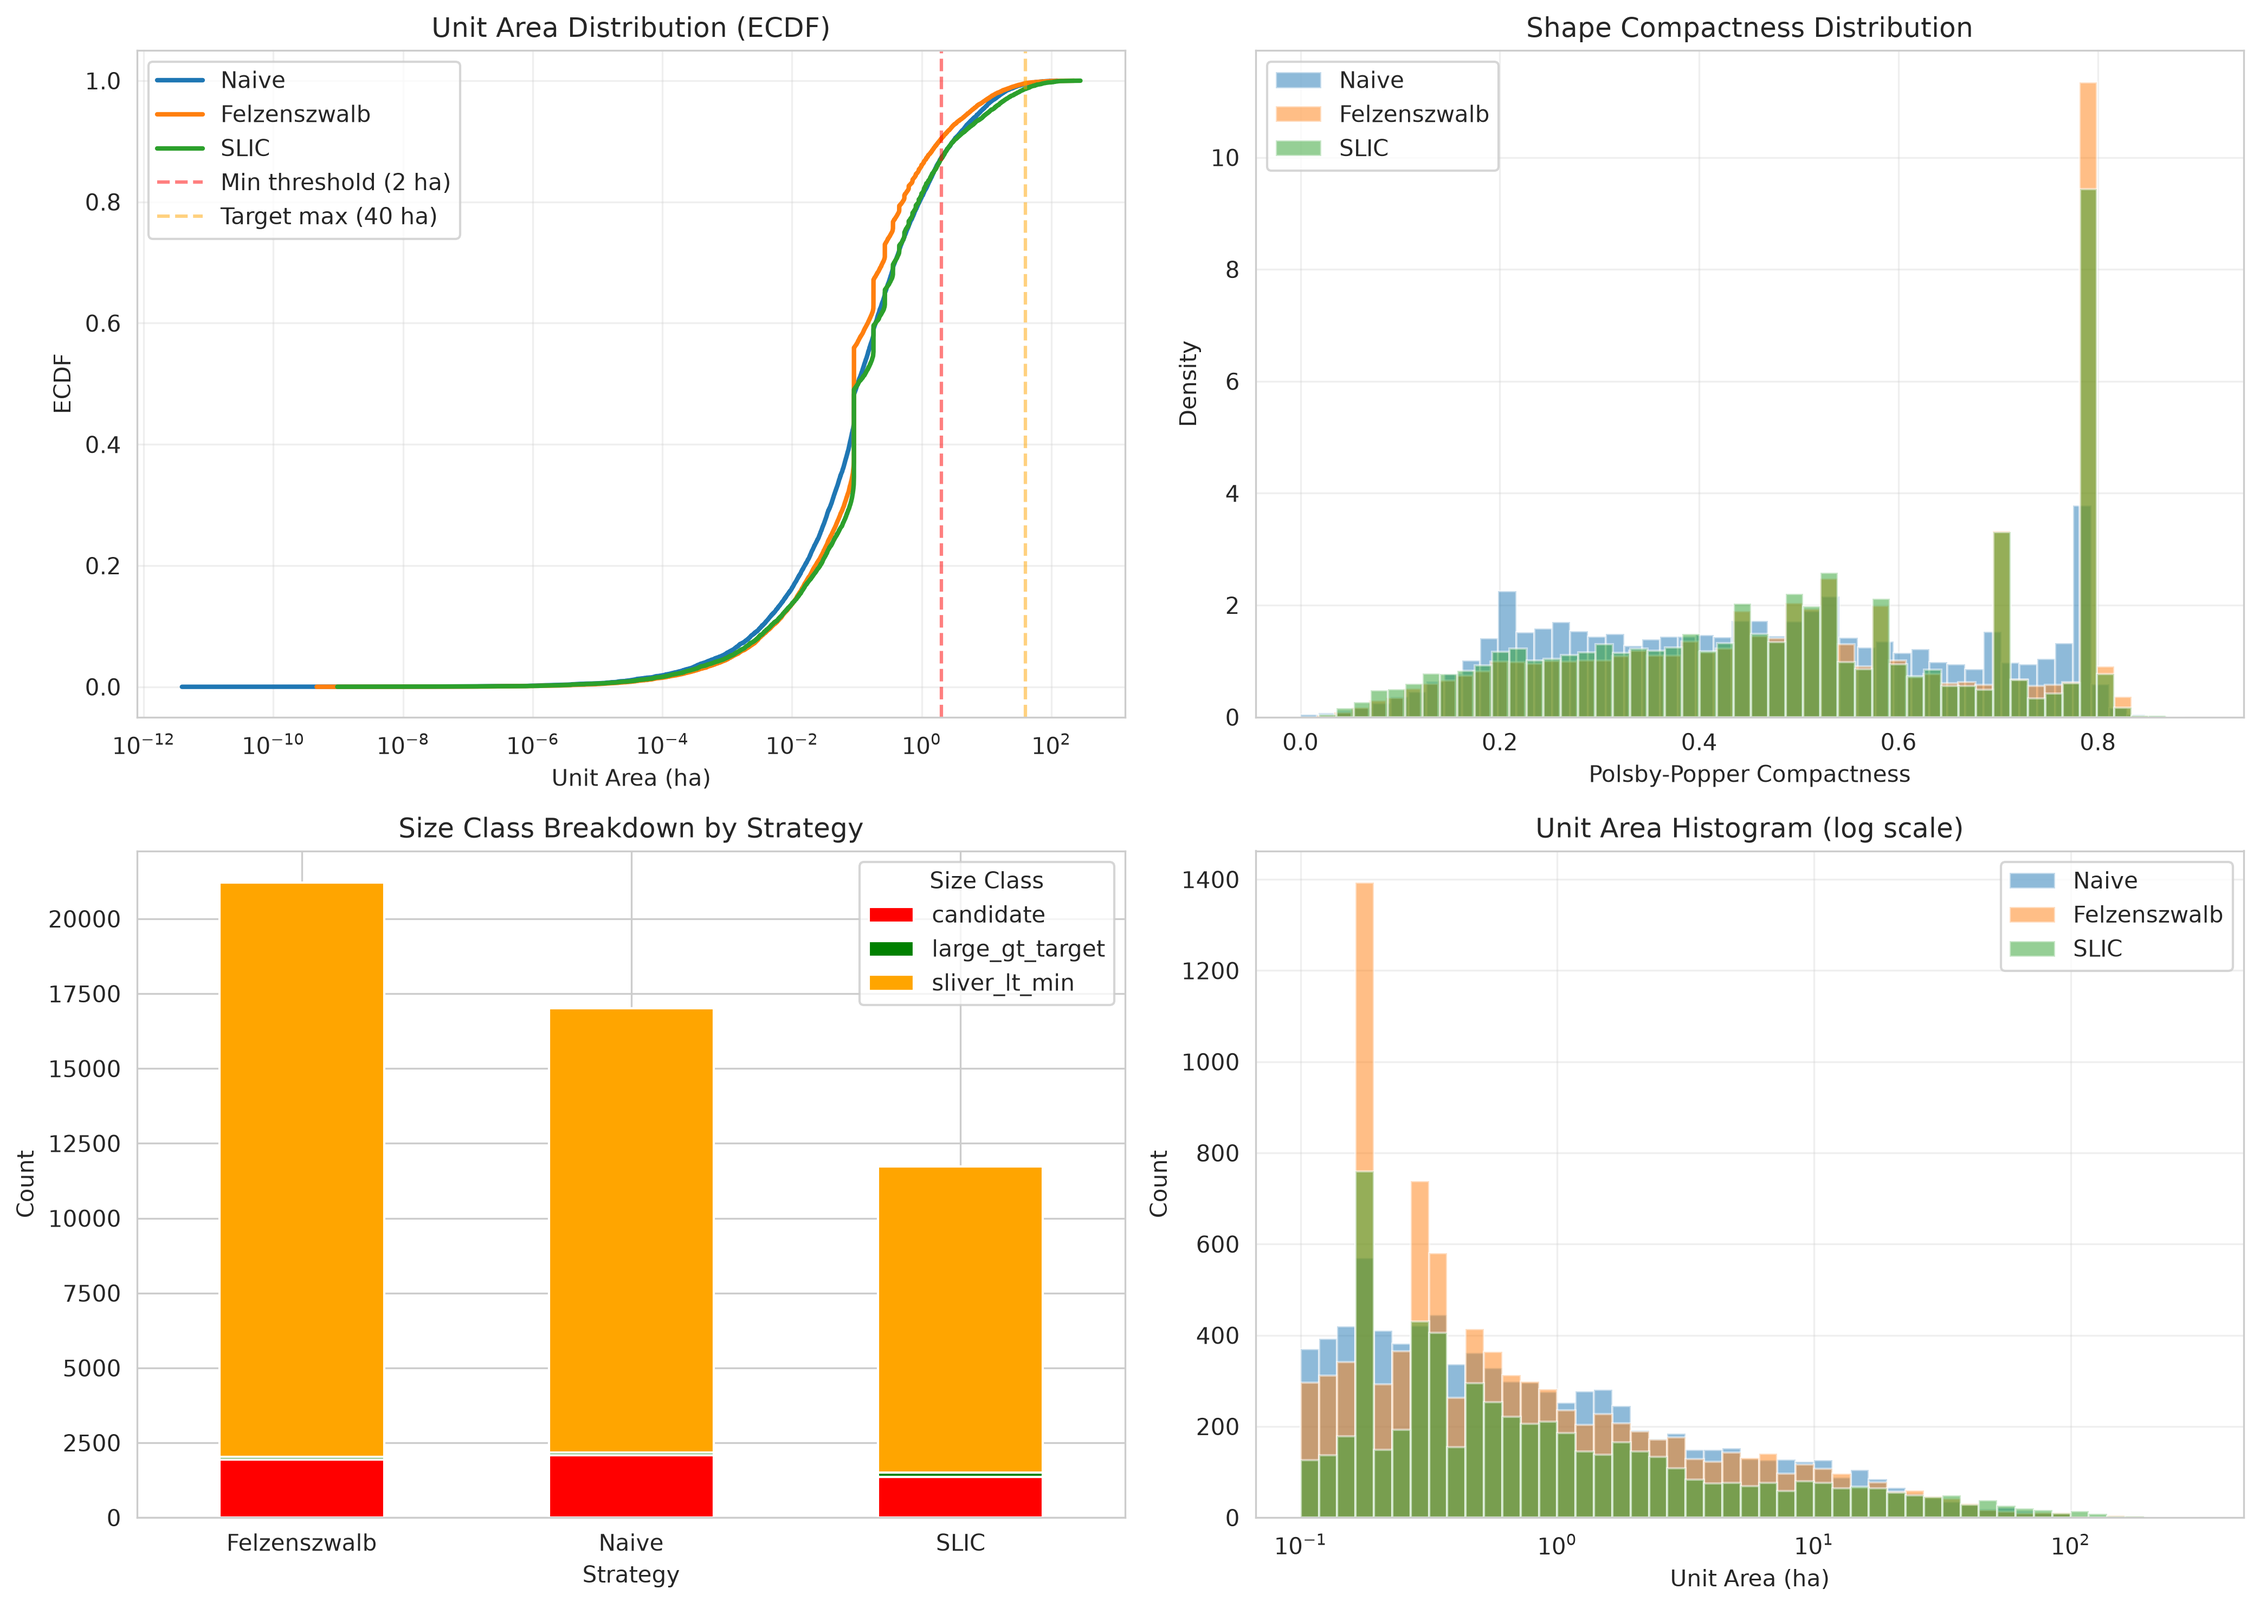
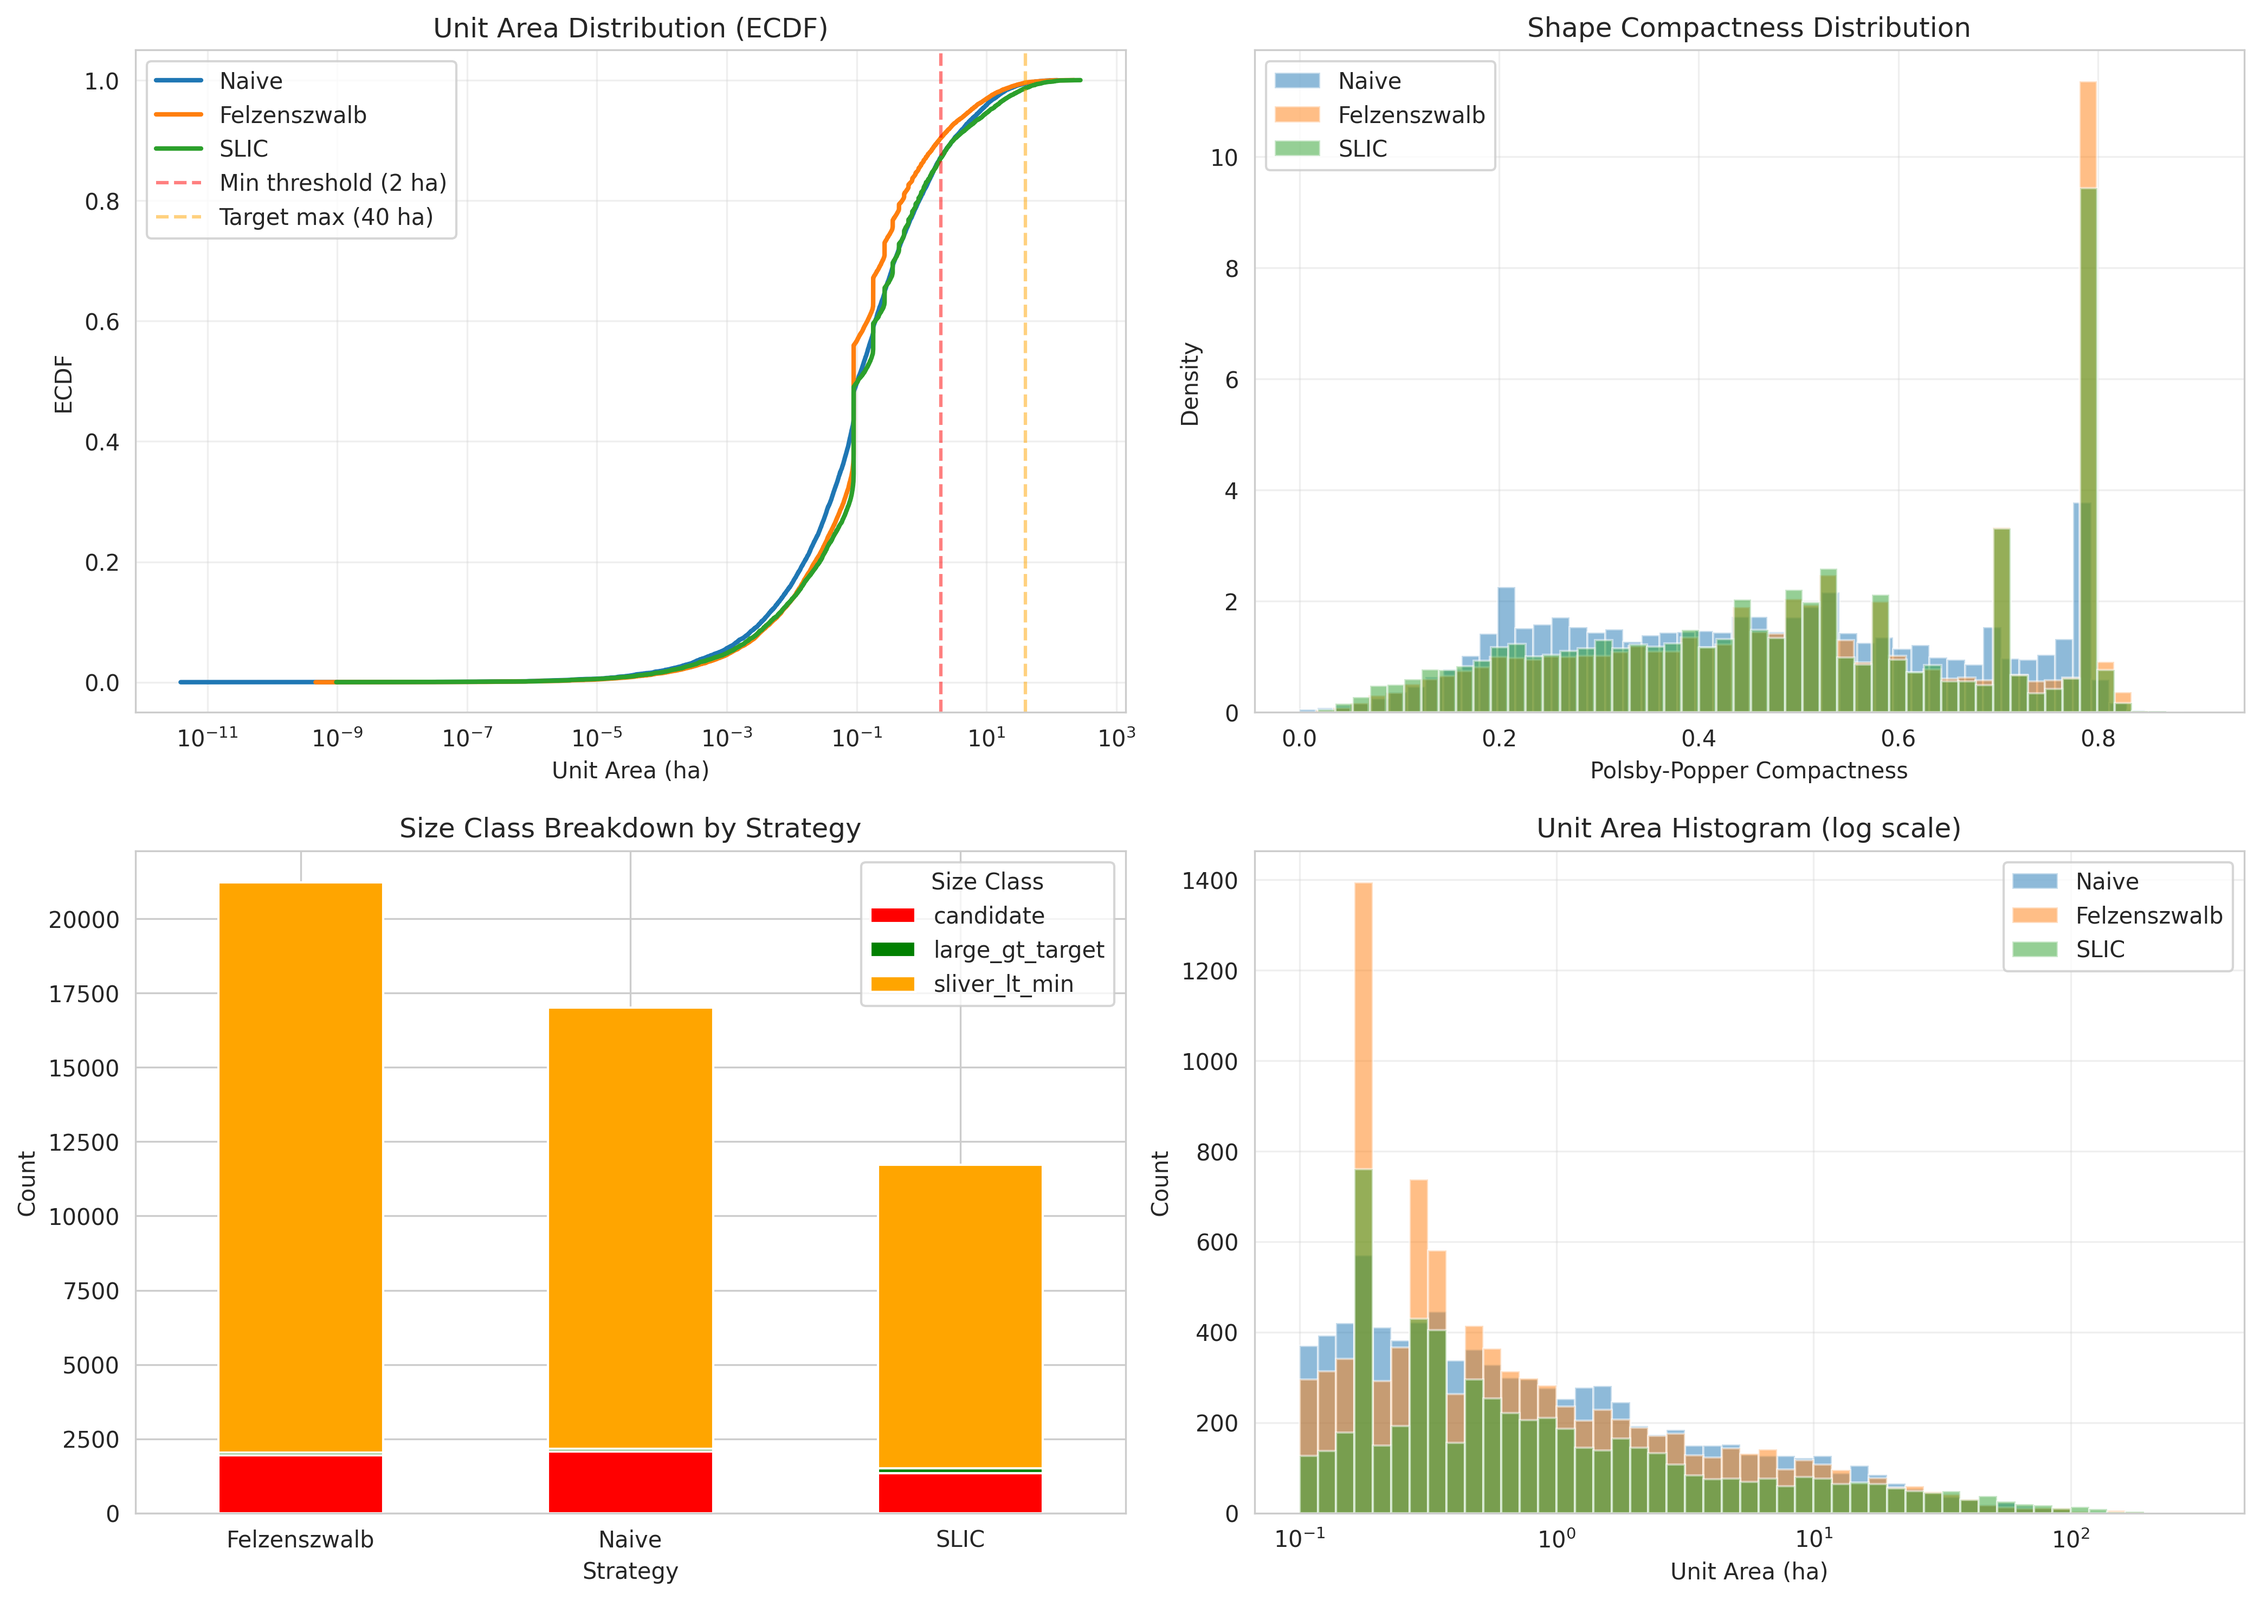
Fix label-0 collision dropping forest segments from Felzenszwalb
skimage's felzenszwalb() labels segments from 0, unlike slic() which is
called with start_label=1. felzenszwalb_segmentation() then masks
non-forest pixels to 0, and vectorize_segments() skips value 0 as nodata
— so whichever forest segment happened to be labeled 0 was silently
dropped before any measurement.

Shift felzenszwalb labels to 1-based so 0 stays reserved for nodata.

On the Union County AOI this recovered 52 forest pixels (4.68 ha) in 14
patches that were being discarded. Felzenszwalb's post-erase
total_forest_ha now matches SLIC's exactly (27806.344 ha) rather than
running 3.69 ha short — both strategies partition the same forest mask,
so equality is the expected invariant.

Reported by Devin Review on #7.

diff --git a/tests/test_segmentation_delineation.py b/tests/test_segmentation_delineation.py
@@ -1,0 +1,64 @@
+"""Tests for the management-unit segmentation research helpers."""
+
+from pathlib import Path
+import sys
+
+import numpy as np
+
+sys.path.insert(0, str(Path(__file__).resolve().parents[1]))
+
+from research.mgmt_units.segmentation_delineation import (
+    felzenszwalb_segmentation,
+    slic_segmentation,
+    vectorize_segments,
+)
+
+
+def _synthetic_stack(height=64, width=64):
+    """Two-block image plus an all-forest mask, so every segment is a forest segment."""
+    evt = np.zeros((height, width))
+    evt[: height // 2, :] = 0.2
+    evt[height // 2 :, :] = 0.8
+    forest_mask = np.ones((height, width), dtype=bool)
+    stack = np.stack([evt, forest_mask.astype(float), np.full((height, width), 0.5)], axis=0)
+    return stack, forest_mask
+
+
+def test_felzenszwalb_labels_are_one_based_so_no_forest_segment_is_dropped():
+    # skimage's felzenszwalb labels from 0, but 0 is the nodata sentinel that
+    # vectorize_segments skips — a 0-labeled forest segment would vanish silently.
+    stack, forest_mask = _synthetic_stack()
+
+    segments = felzenszwalb_segmentation(stack, forest_mask, scale=100, sigma=0.5, min_size=50)
+
+    assert segments[forest_mask].min() >= 1
+
+
+def test_slic_labels_are_one_based():
+    stack, forest_mask = _synthetic_stack()
+
+    segments = slic_segmentation(stack, forest_mask, n_segments=10, compactness=10.0, sigma=1.0)
+
+    assert segments[forest_mask].min() >= 1
+
+
+def test_non_forest_pixels_are_masked_to_the_nodata_sentinel():
+    stack, forest_mask = _synthetic_stack()
+    forest_mask[:8, :8] = False
+
+    segments = felzenszwalb_segmentation(stack, forest_mask, scale=100, sigma=0.5, min_size=50)
+
+    assert (segments[~forest_mask] == 0).all()
+
+
+def test_vectorize_segments_keeps_every_forest_pixel():
+    import rasterio
+
+    stack, forest_mask = _synthetic_stack()
+    forest_mask[:8, :8] = False
+    transform = rasterio.transform.from_origin(0, 64, 1, 1)
+
+    segments = felzenszwalb_segmentation(stack, forest_mask, scale=100, sigma=0.5, min_size=50)
+    gdf = vectorize_segments(segments, transform, "EPSG:5070")
+
+    assert gdf.geometry.area.sum() == forest_mask.sum()

diff --git a/research/mgmt_units/segmentation_delineation.py b/research/mgmt_units/segmentation_delineation.py
@@ -130,6 +130,10 @@ def felzenszwalb_segmentation(
         min_size=min_size,
     )
 
+    # felzenszwalb labels start at 0 (unlike slic's start_label=1); shift to 1-based
+    # so 0 stays reserved for nodata and vectorize_segments cannot drop a real segment
+    segments = segments + 1
+
     # Mask out non-forest pixels
     segments_masked = np.where(forest_mask, segments, 0)
 
